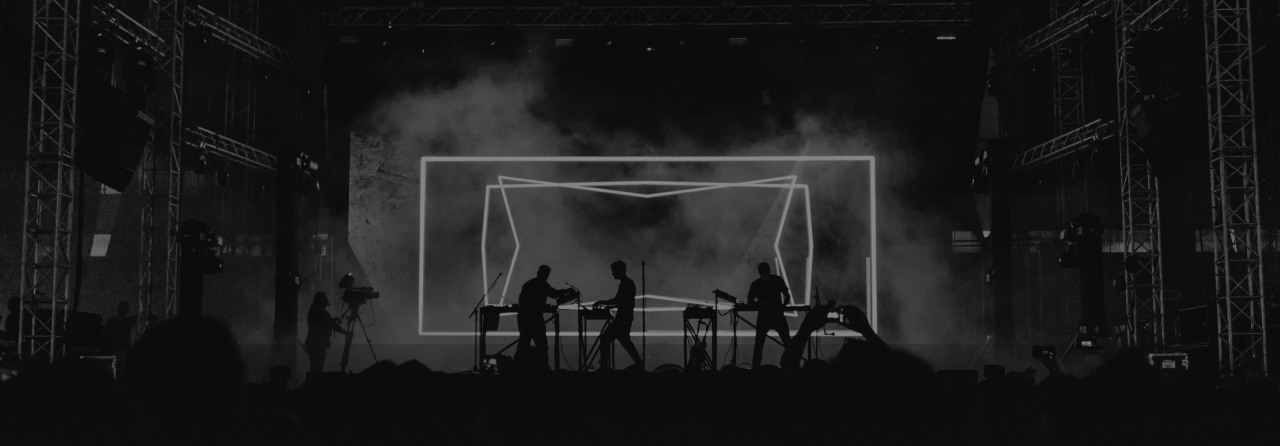
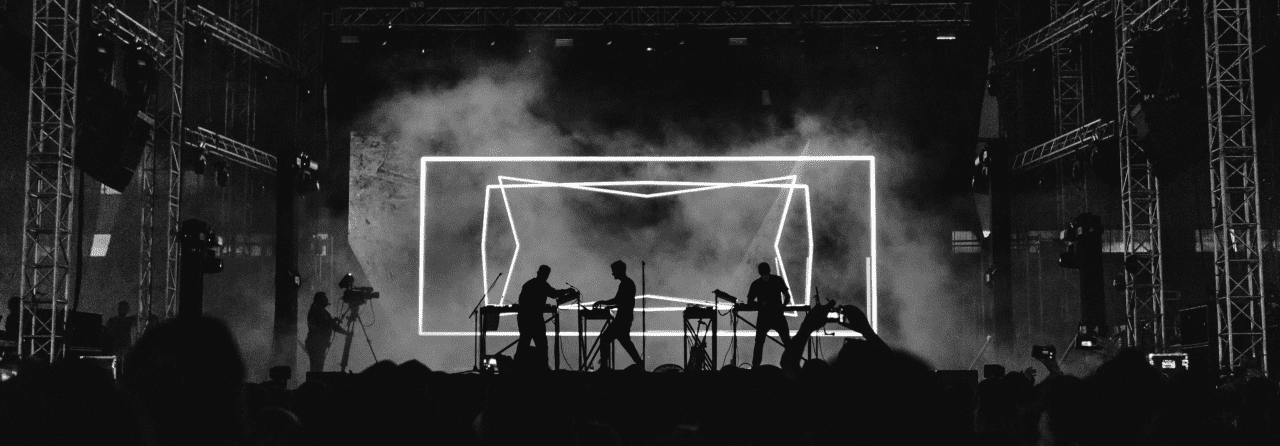
[Background] Fix CSS bugs

diff --git a/src/sass/_background.scss b/src/sass/_background.scss
@@ -1,39 +1,46 @@
 .header__bg {
   margin-right: auto;
   margin-left: auto;
+  border-color: gba(11, 11, 11, 0.5);
 
   @media screen and (max-width: 767.98px) {
     background-image: url('../images/logo/mobile/mobile-logo.png'),
+      linear-gradient(180deg, rgba(13, 13, 13, 0) 0%, rgba(14, 14, 14, 0.8) 100%),
       url('../images/bg/header/mobile-bg-image.png');
     background-repeat: no-repeat;
-    background-size: 108px 90px, 100% 364px;
+    background-size: 108px 90px, 100% 364px, 100% 364px;
 
     @media (min-device-pixel-ratio: 2), (min-resolution: 192dpi), (min-resolution: 2dppx) {
       background-image: url('../images/logo/mobile/mobile-logo-2x.png'),
+        linear-gradient(180deg, rgba(13, 13, 13, 0) 0%, rgba(14, 14, 14, 0.8) 100%),
         url('../images/bg/header/mobile-bg-image.png');
     }
   }
 
   @media screen and (min-width: 768px) {
     background-image: url('../images/logo/tablet/tablet-logo.png'),
+      linear-gradient(180deg, rgba(13, 13, 13, 0) 0%, rgba(14, 14, 14, 0.8) 100%),
       url('../images/bg/header/tablet-bg-image.png');
     background-repeat: no-repeat;
-    background-size: 180px 150px, 100% 364px;
+    background-size: 180px 150px, 100% 364px, 100% 364px;
 
     @media (min-device-pixel-ratio: 2), (min-resolution: 192dpi), (min-resolution: 2dppx) {
       background-image: url('../images/logo/tablet/tablet-logo-2x.png'),
+        linear-gradient(180deg, rgba(13, 13, 13, 0) 0%, rgba(14, 14, 14, 0.8) 100%),
         url('../images/bg/header/tablet-bg-image.png');
     }
   }
 
   @media screen and (min-width: 1280px) {
     background-image: url('../images/logo/desktop/desktop-logo.png'),
+      linear-gradient(180deg, rgba(13, 13, 13, 0) 0%, rgba(14, 14, 14, 0.8) 100%),
       url('../images/bg/header/desktop-bg-image.png');
     background-repeat: no-repeat;
-    background-size: 238px 201px, 100% 446px;
+    background-size: 238px 201px, 100% 446px, 100% 446px;
 
     @media (min-device-pixel-ratio: 2), (min-resolution: 192dpi), (min-resolution: 2dppx) {
       background-image: url('../images/logo/desktop/desktop-logo-2x.png'),
+        linear-gradient(180deg, rgba(13, 13, 13, 0) 0%, rgba(14, 14, 14, 0.8) 100%),
         url('../images/bg/header/desktop-bg-image.png');
     }
   }
@@ -62,19 +69,19 @@
   }
 }
 
-.body__bg {
-  margin-right: auto;
-  margin-left: auto;
+// .body__bg {
+//   margin-right: auto;
+//   margin-left: auto;
 
-  @media screen and (min-width: 768px) and (max-width: 1279.98px) {
-    background-image: url('../images/bg-lines/tablet-bg-decor.png');
-    background-repeat: no-repeat;
-    background-size: 100% 2946px;
-  }
+//   @media screen and (min-width: 768px) and (max-width: 1279.98px) {
+//     background-image: url('../images/bg-lines/tablet-bg-decor.png');
+//     background-repeat: no-repeat;
+//     background-size: 100% 2946px;
+//   }
 
-  @media screen and (min-width: 1280px) {
-    background-image: url('../images/bg-lines/desktop-bg-decor.png');
-    background-repeat: no-repeat;
-    background-size: 100% 2376px;
-  }
-}
+//   @media screen and (min-width: 1280px) {
+//     background-image: url('../images/bg-lines/desktop-bg-decor.png');
+//     background-repeat: no-repeat;
+//     background-size: 100% 2376px;
+//   }
+// }

diff --git a/src/sass/_main-title.scss b/src/sass/_main-title.scss
@@ -4,9 +4,6 @@
   margin-top: 80px;
   max-width: 215px;
 
-  width: 590px;
-  font-family: Montserrat;
-  font-style: normal;
   font-weight: 900;
   font-size: 18px;
   line-height: 1.22;
